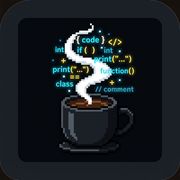
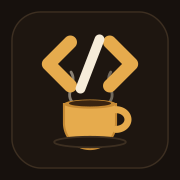
Rehacer el ícono (taza de café + código) como SVG vectorial, sin blur en ningún tamaño
- Antes era arte rasterizado (probablemente escalado desde una fuente chica/generada), por eso
  se veía borroso al ampliarlo en el ícono de iPhone / PWA.
- Ahora es un SVG hecho a mano: el navegador lo renderiza nítido a cualquier tamaño, sin importar
  la pantalla. Se agregó favicon.svg como fuente principal en el <head> y en el manifest.
- Se regeneraron favicon.ico (16/32/48), favicon-32/192/512.png y apple-touch-icon.png
  directamente desde el SVG a cada resolución exacta (no escalando una imagen borrosa).
- Se simplificó un poco la composición (glifo </> más grande y taza más chica) para que se
  siga leyendo en la pestaña del navegador a tamaños chicos, donde antes se perdía el detalle.

diff --git a/index.html b/index.html
@@ -7,6 +7,7 @@
 <meta name="description" content="Joaquín Viani, desarrollador web. Sitios a medida con HTML, CSS y JavaScript.">
 
 <!-- Favicon -->
+<link rel="icon" href="favicon.svg" type="image/svg+xml">
 <link rel="icon" href="favicon.ico" sizes="any">
 <link rel="icon" type="image/png" sizes="32x32" href="assets/img/favicon-32.png">
 <link rel="icon" type="image/png" sizes="192x192" href="assets/img/favicon-192.png">
